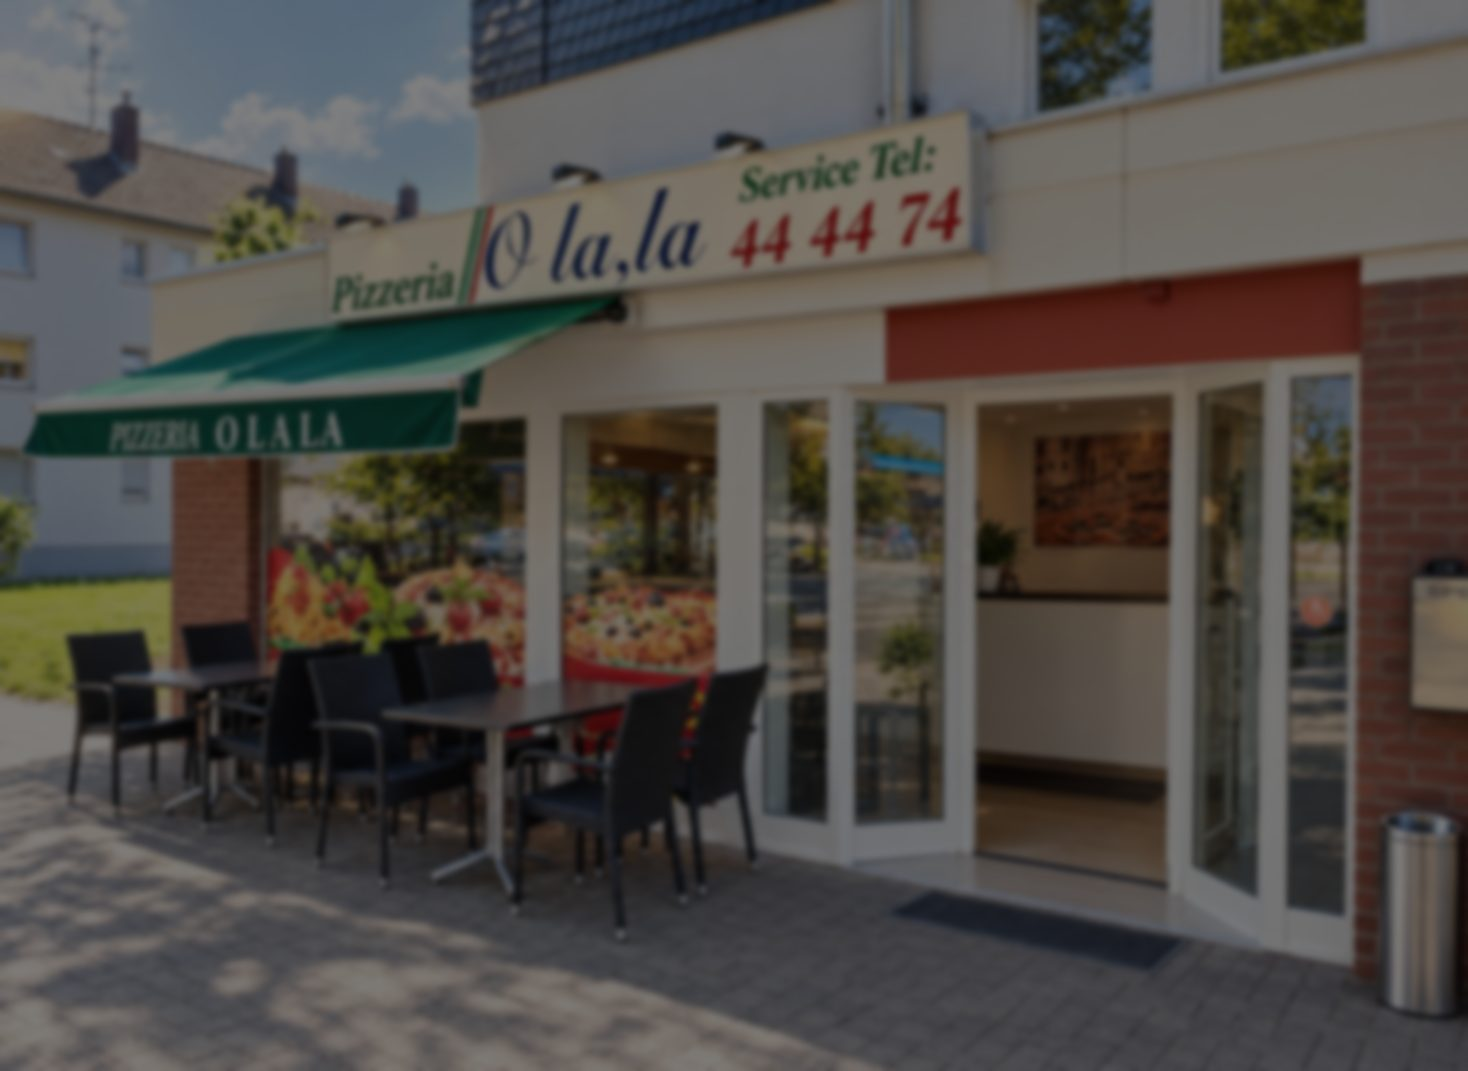
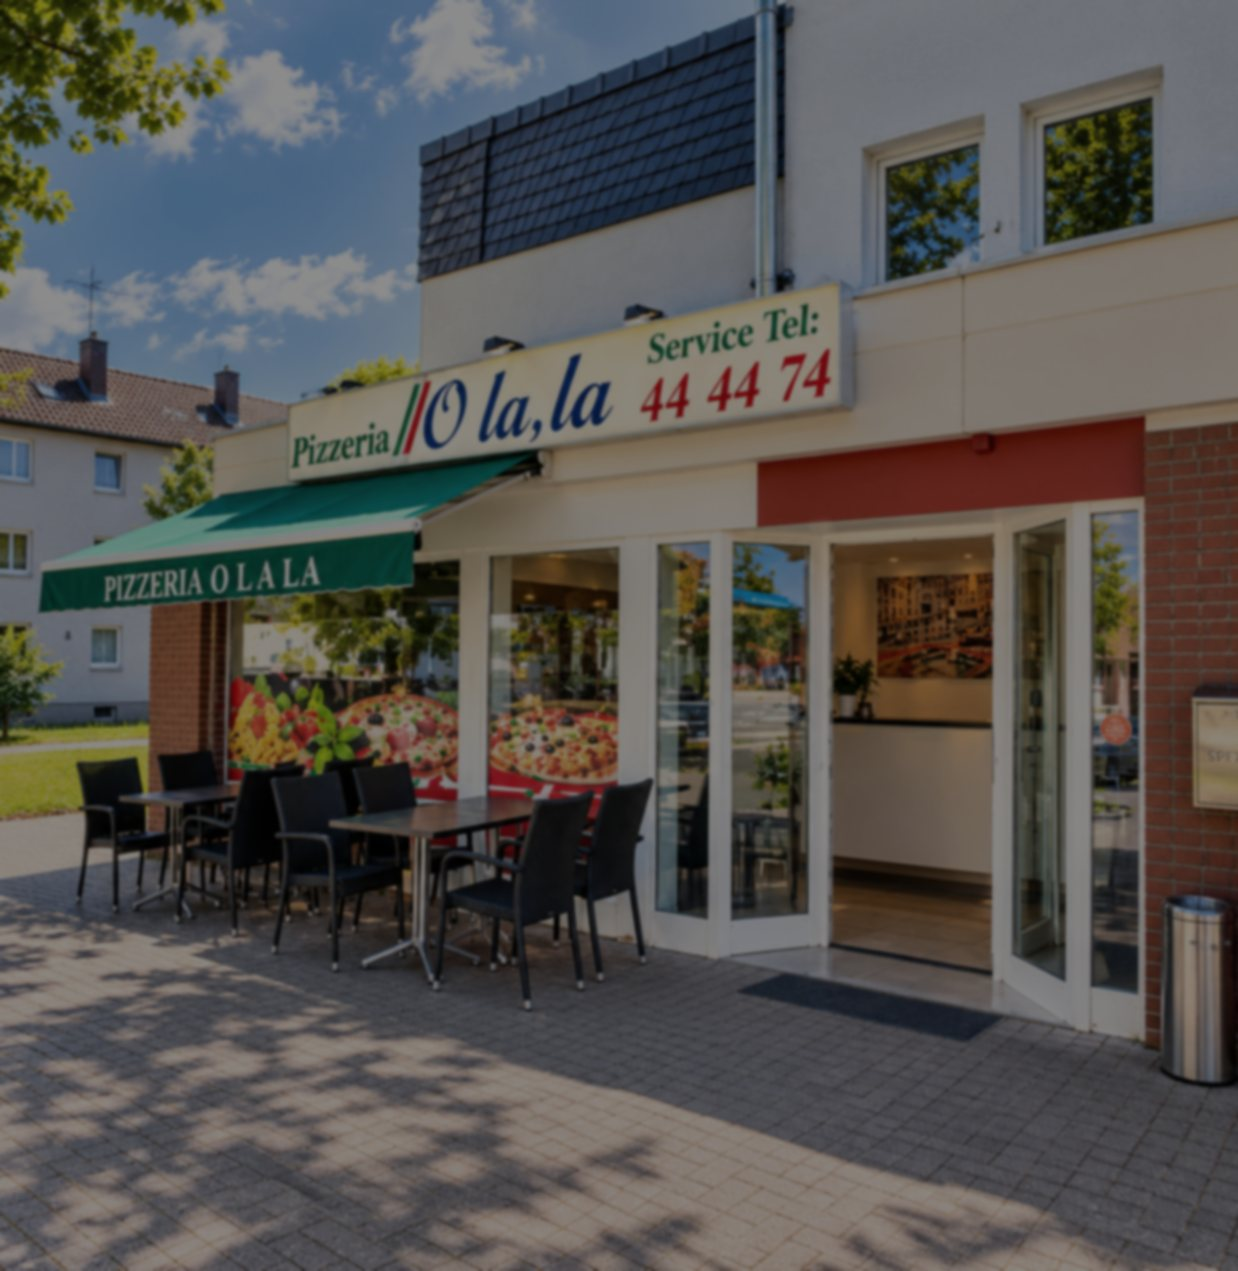
Hero: neues Ladenfoto
Claude-Session: https://claude.ai/code/session_01UqVfYV31YA7urAvexvy48e

diff --git a/index.html b/index.html
@@ -45,7 +45,7 @@ header{position:sticky;top:0;z-index:50;background:rgba(255,255,255,.94);backdro
 .hbar .btn{padding:10px 18px;font-size:14px}
 
 /* Hero */
-.hero{padding:72px 0 64px;text-align:center;position:relative;overflow:hidden;color:#fff;background:#141414 url(img/laden.jpg) center 45%/cover no-repeat}
+.hero{padding:72px 0 64px;text-align:center;position:relative;overflow:hidden;color:#fff;background:#141414 url(img/laden.jpg) center 62%/cover no-repeat}
 .hero::before{content:"";position:absolute;inset:0;background:linear-gradient(180deg,rgba(10,10,10,.45) 0%,rgba(10,10,10,.35) 45%,rgba(10,10,10,.7) 100%);pointer-events:none}
 .hero .wrap{position:relative}
 .hero-logo{width:min(560px,86%);margin:0 auto;filter:drop-shadow(0 6px 24px rgba(0,0,0,.45))}
